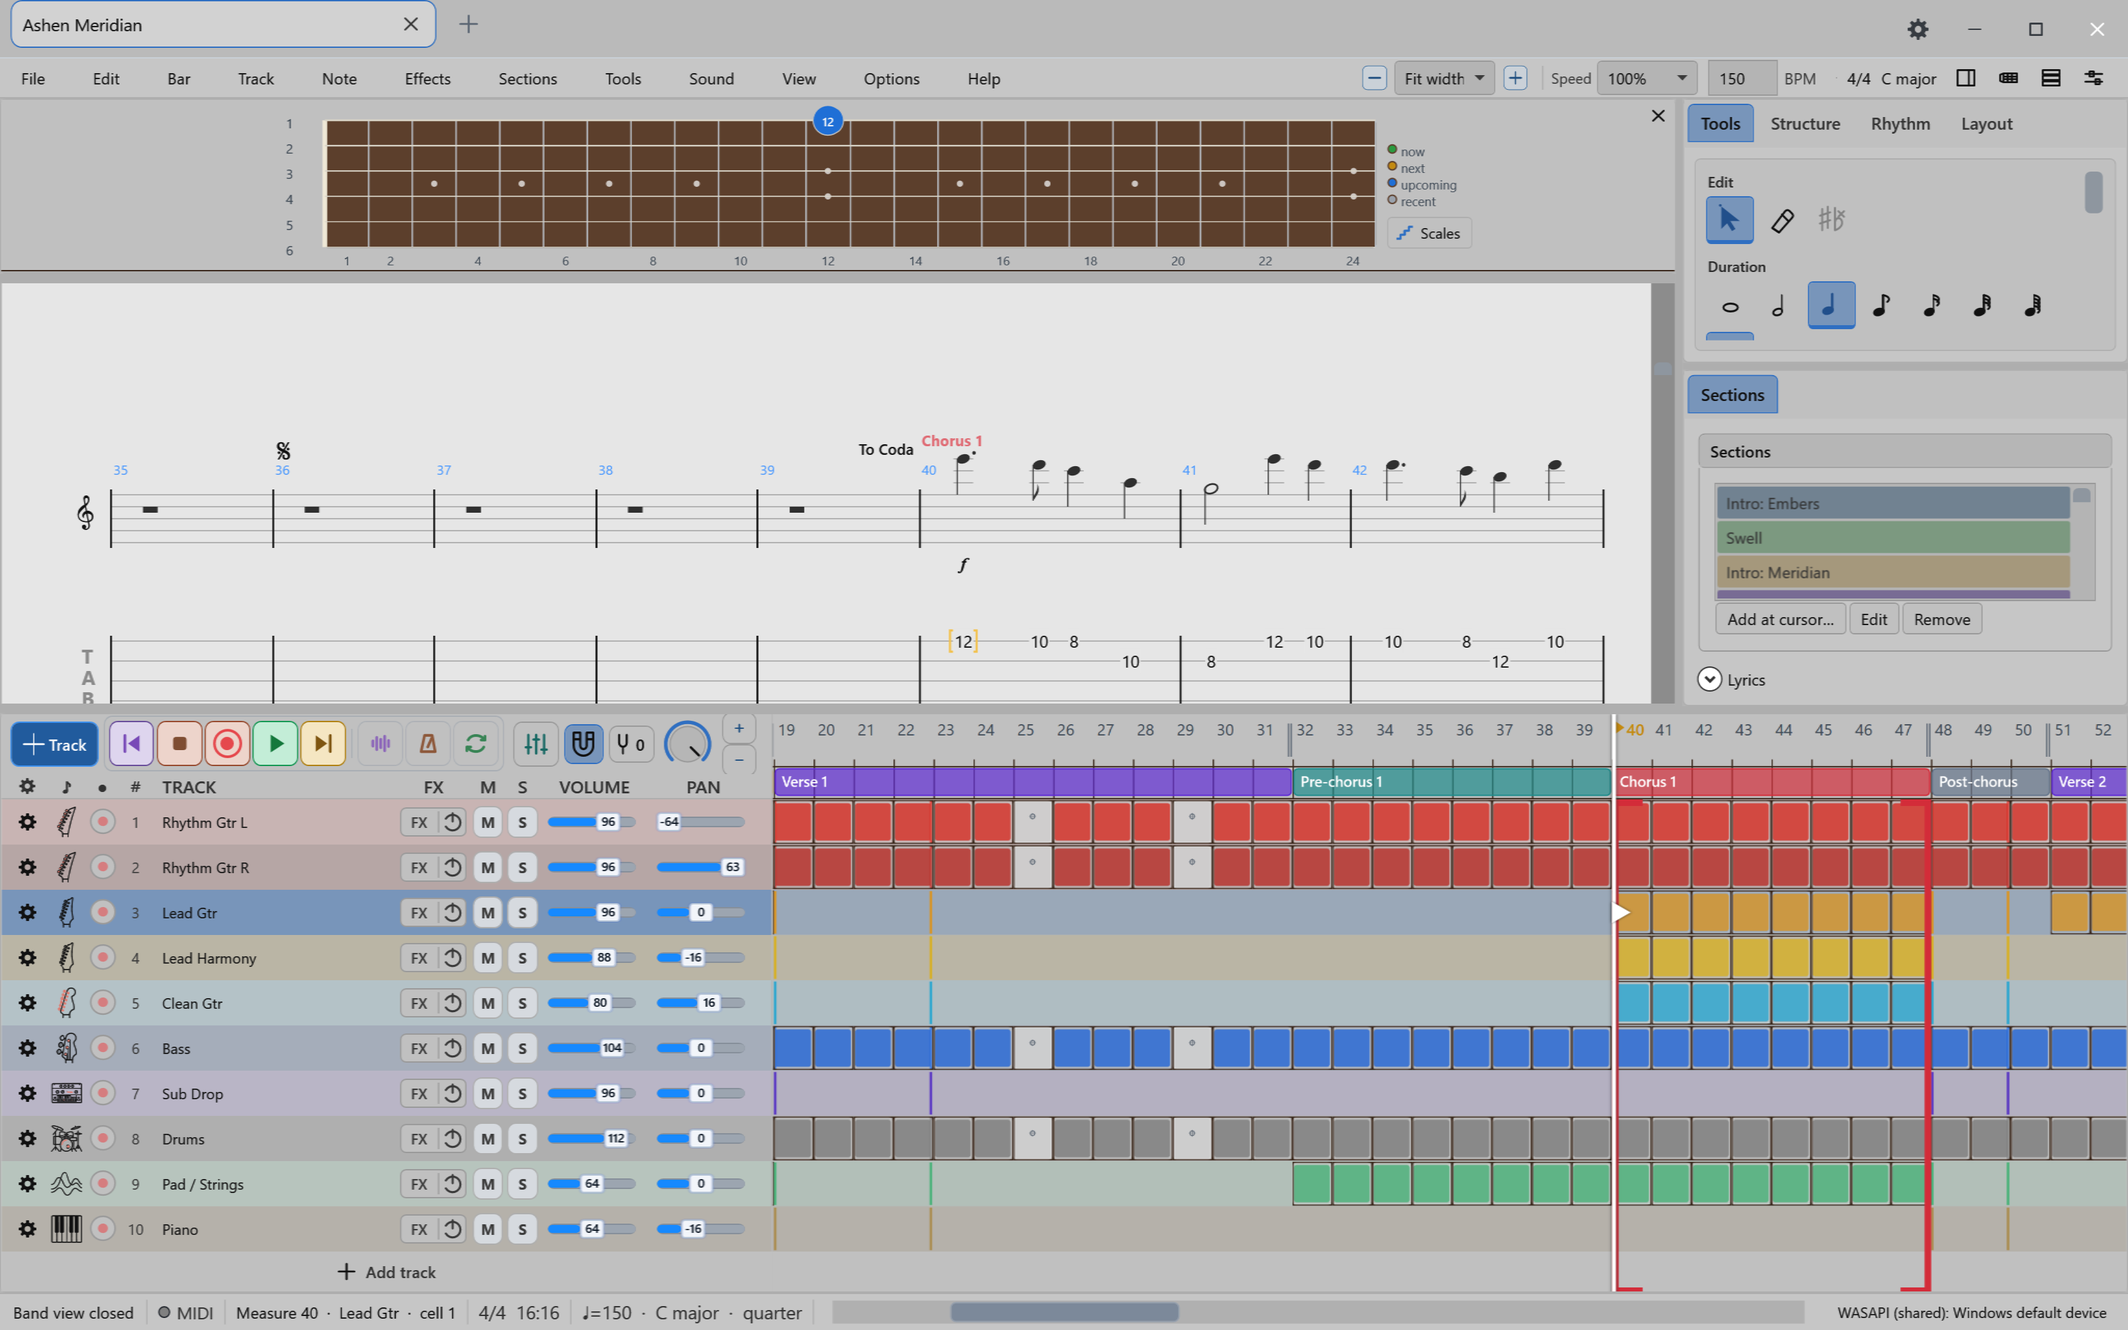
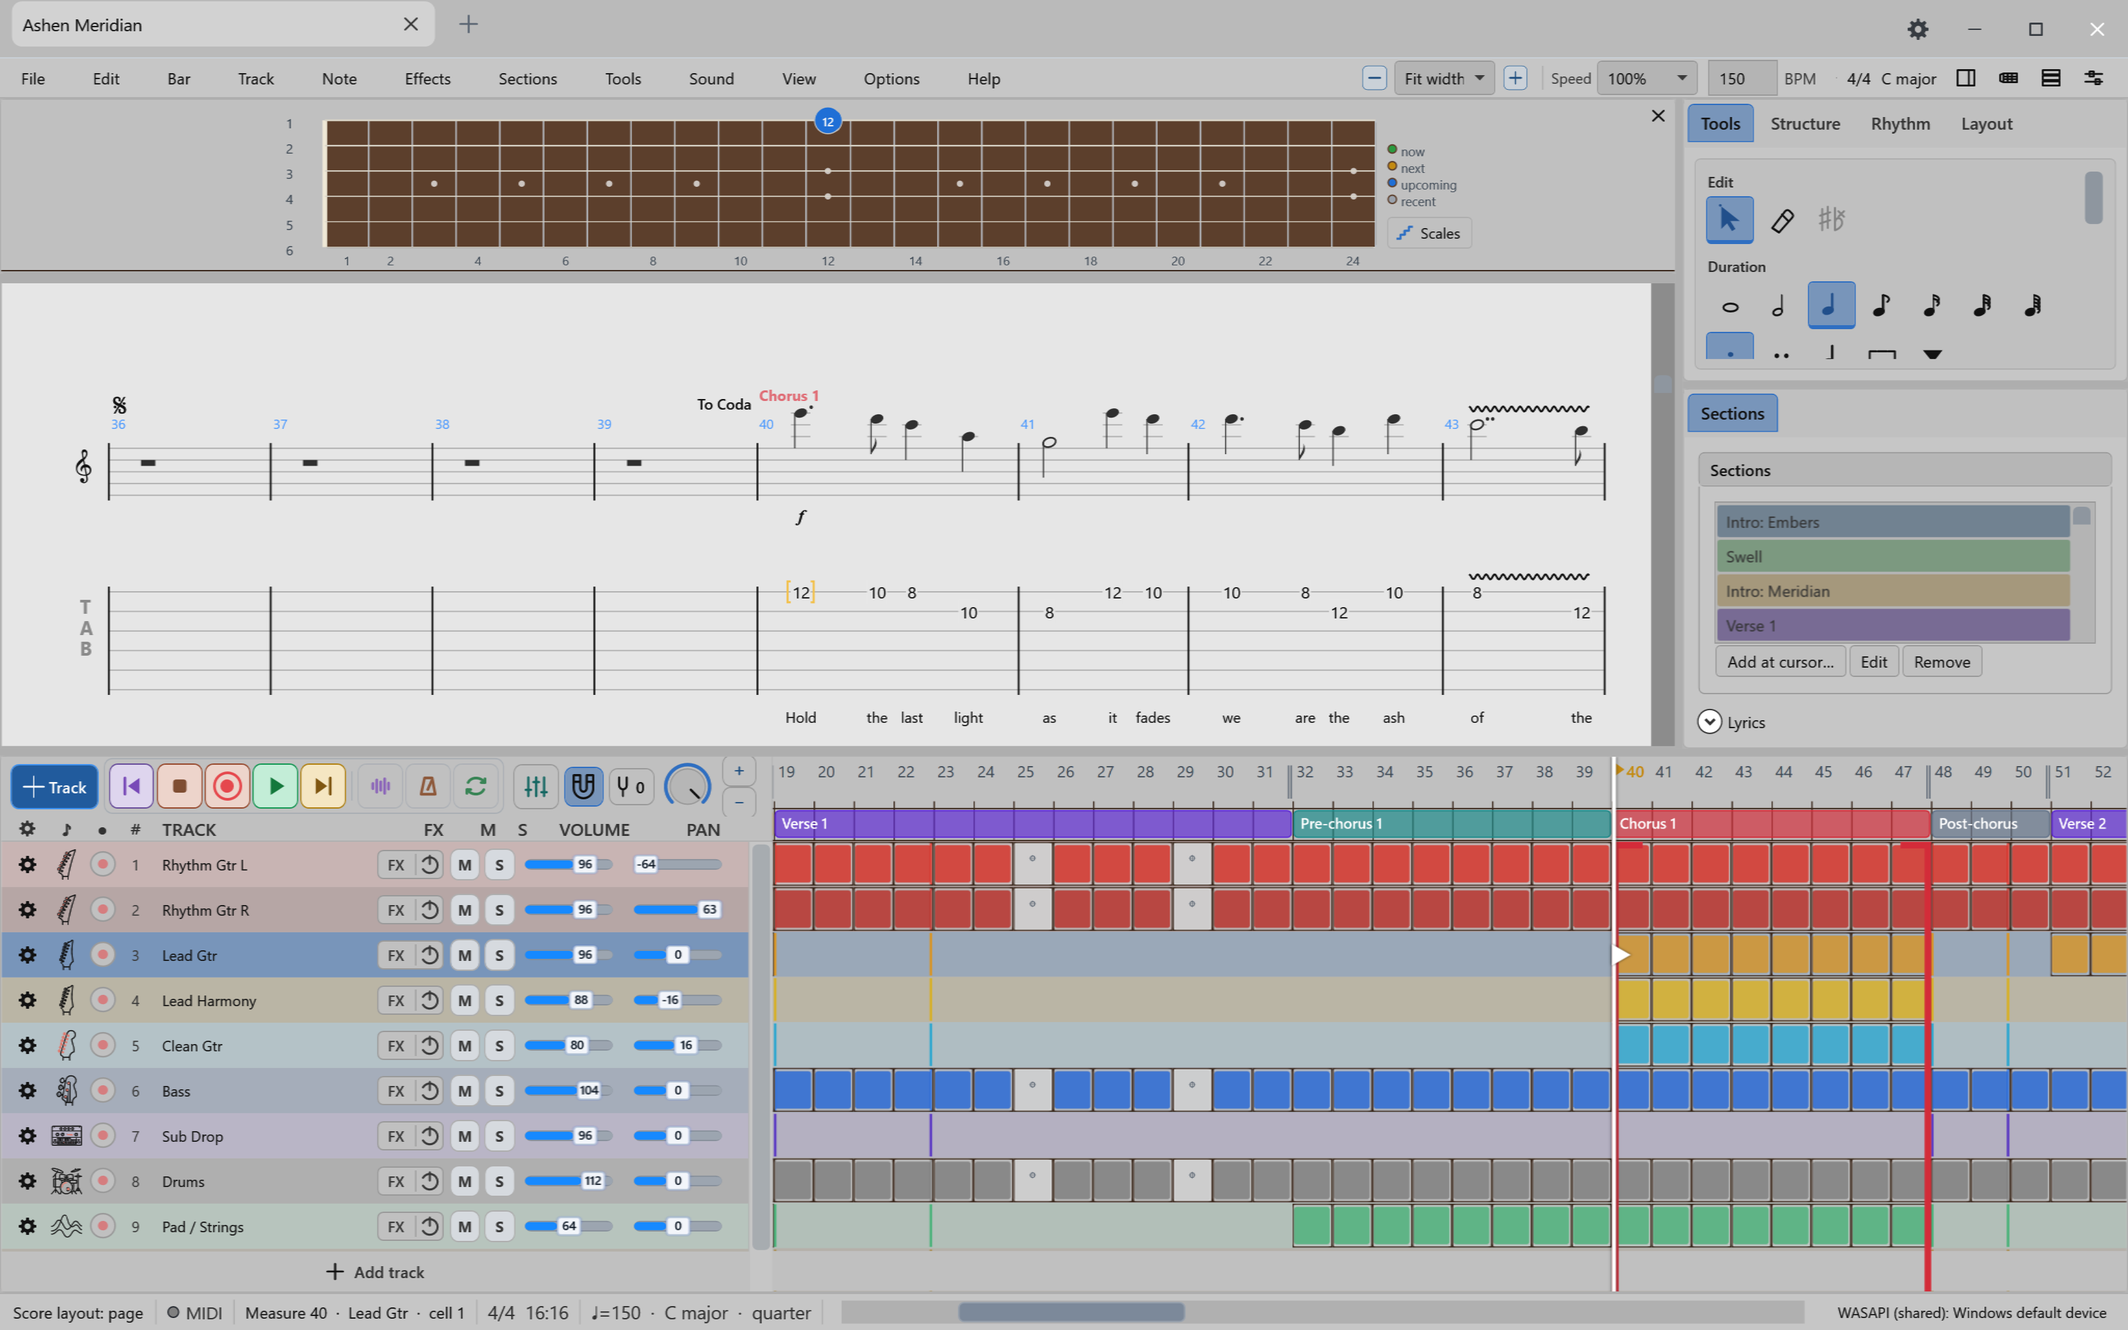
TabForge 0.6.1

diff --git a/src/TabForge/Controllers/TrackListFitController.cs b/src/TabForge/Controllers/TrackListFitController.cs
@@ -14,6 +14,8 @@ internal interface ITrackListFitHost
     Dispatcher Dispatcher { get; }
     void SaveSettings();
     void SetStatus(string text);
+    /// <summary>The least height the score pane keeps (one full system); 0 when unknown.</summary>
+    double MinScoreHeight => 0;
 }
 
 // Owns: the track-list dock height: fitting it to its rows and turning a splitter drag into a row height.
@@ -31,6 +33,7 @@ internal sealed class TrackListFitController
     internal const double Chrome = 2;
     private readonly ITrackListFitHost _host;
     private bool _fitting, _dragging, _fitPending;
+    private bool _uncapped;   // a dragged-to height is the user's: the cap does not pull it back
     private bool _userShort;   // the user dragged the dock shorter than its rows: leave it there until the tracks change
 
     public TrackListFitController(ITrackListFitHost host, FrameworkElement owner)
@@ -82,11 +85,21 @@ internal sealed class TrackListFitController
         _fitting = true;
         try
         {
-            var want = _host.Arrangement.PreferredHeight();
+            var want = CappedHeight();
             if (!allowGrow && _host.Arrangement.ActualHeight + Chrome <= want + 1) return;
             _host.Dock.FitPanelHeight(PanelId, want);
         }
         finally { _fitting = false; }
+    }
+
+    /// <summary>The rows' height, capped at 45% of the space shared with the score and leaving the score one system; never below the collapsed height. Extra rows scroll.</summary>
+    private double CappedHeight()
+    {
+        var want = _host.Arrangement.PreferredHeight();
+        var shared = _host.Dock.ActualHeight;
+        if (shared <= 1 || _host.MinScoreHeight <= 0 || _uncapped) return want;
+        var cap = Math.Min(shared * 0.45, shared - _host.MinScoreHeight);
+        return Math.Min(want, Math.Max(ArrangementPanel.CollapsedPaneHeight, cap));
     }
 
     /// <summary>Back to the default row height and a dock that fits the rows.</summary>
@@ -118,7 +131,7 @@ internal sealed class TrackListFitController
                 _userShort = _host.Arrangement.ActualHeight + Chrome < _host.Arrangement.PreferredHeight() - 1;
                 var kept = _userShort ? Math.Round(_host.Arrangement.ActualHeight + Chrome) : 0;
                 if (Math.Abs(_host.Timeline.TrackListHeight - kept) > 0.5) { _host.Timeline.TrackListHeight = kept; _host.SaveSettings(); }
-                if (!_userShort) Fit(allowGrow: true);   // past the maximum row height: snap back to the rows
+                if (!_userShort) { _uncapped = true; try { Fit(allowGrow: true); } finally { _uncapped = false; } }   // past the maximum row height: snap back to the rows
                 break;
             case DockSplitterPhase.DoubleClick: ResetRowHeight(); break;
         }

diff --git a/tests/full-suite/Editor/SelfTestTrackListFit.cs b/tests/full-suite/Editor/SelfTestTrackListFit.cs
@@ -38,6 +38,7 @@ public static partial class SelfTest
         public DockWorkspace Dock { get; init; } = null!;
         public System.Windows.Threading.Dispatcher Dispatcher => System.Windows.Threading.Dispatcher.CurrentDispatcher;
         public int Saves;
+        public double MinScoreHeight { get; init; }
         public void SaveSettings() => Saves++;
         public void SetStatus(string text) { }
     }
@@ -172,6 +173,31 @@ public static partial class SelfTest
         foreach (var (tracks, groups, height) in new[] { (1, false, 1500), (4, false, 1500), (4, true, 1500), (20, false, 1700), (20, false, 800) })
             TrackListDragLimits(tracks, groups, height);
         Check("track list fit: 'Reset track row height' is a bindable command", HotkeyCatalog.All.Any(a => a.Id == "View.ResetTrackRowHeight"));
+    }
+
+    /// <summary>A 1300x800 window with 10 tracks: the track list stops at 45% of the space and the score pane keeps one system.</summary>
+    private static void TestTrackListFitCapsAtScore()
+    {
+        var song = new SongProject();
+        for (var i = 0; i < 10; i++) song.Tracks.Add(MixerTestTrack("T" + i, TrackKind.Guitar, 30));
+        var panel = new ArrangementPanel();
+        panel.Bind(song, Array.Empty<Playback.MidiOutputDeviceInfo>());
+        var workspace = new DockWorkspace(new Window());
+        var window = new FitStage(workspace, 1300, 800);
+        var score = new Border();
+        workspace.SetEditorContent(score, 460, 0);
+        workspace.RegisterPanel("timeline", "Arrangement", panel, 440, 112, "timeline", "score-editor");
+        workspace.RestoreLayout(null);
+        using var alive = KeepAlive();
+        try
+        {
+            window.UpdateLayout(); PumpUi();
+            var fit = new TrackListFitController(new FitHost { Arrangement = panel, Dock = workspace, MinScoreHeight = 240 }, workspace);
+            fit.FitToTracks(); PumpUi(); window.UpdateLayout();
+            Check("track list cap: the score pane keeps at least one system", score.ActualHeight >= 240, $"score {score.ActualHeight:0}px, list {panel.ActualHeight:0}px");
+            Check("track list cap: the track list stays within 45% of the space (rows scroll)", panel.ActualHeight <= 800 * 0.45 + 4 && panel.ActualHeight + 2 >= ArrangementPanel.CollapsedPaneHeight, $"{panel.ActualHeight:0}px");
+        }
+        finally { window.Close(); }
     }
 
     private static void TwoPanelsKeepTheirOwnRowHeight()

diff --git a/src/TabForge/Views/ScoreFollowCoordinator.cs b/src/TabForge/Views/ScoreFollowCoordinator.cs
@@ -71,12 +71,14 @@ internal sealed class ScoreFollowCoordinator
             if (_isPlayingVisual() || _editor.HorizontalScroll || _editor.Track is not { Measures.Count: > 0 } || _scroll.ViewportHeight <= 1) return;
             var top = _editor.SystemTopForMeasure(_editor.SelectedMeasure);
             var height = _editor.SystemHeightNow;
+            // A pane shorter than one system keeps the TAB (the system's lower part) in view.
+            if (_scroll.ViewportHeight > 1 && height > _scroll.ViewportHeight) { var focus = FocusTop(top); if (Math.Abs(_scroll.VerticalOffset - focus) > 2) JumpTo(focus); return; }
             var shown = Math.Min(top + height, _scroll.VerticalOffset + _scroll.ViewportHeight) - Math.Max(top, _scroll.VerticalOffset);
             var quarter = Math.Min(height, _scroll.ViewportHeight) / 4;
             if (shown >= quarter) return;
             // The usual target keeps headings above the system in view; a pane too short for both shows the system itself.
             var offset = _editor.ScrollOffsetForMeasure(_editor.SelectedMeasure);
-            JumpTo(top < offset || top + quarter > offset + _scroll.ViewportHeight ? top : offset);
+            JumpTo(top < offset || top + quarter > offset + _scroll.ViewportHeight ? FocusTop(top) : offset);
         });
     }
 
@@ -415,10 +417,19 @@ internal sealed class ScoreFollowCoordinator
         return ScoreVerticalFollow.GlideStep(current, target, dt);
     }
 
+    /// <summary>Where to scroll for a system starting at <paramref name="top"/>: its top, or, in a pane shorter than the system, its lower part so the TAB stays in view.</summary>
+    public double FocusTop(double top)
+    {
+        var height = _editor.SystemHeightNow;
+        var viewport = _scroll.ViewportHeight;
+        return height > viewport && viewport > 1 ? top + height - viewport : top;
+    }
+
     private double? NextVerticalOffset(int bar)
     {
         var viewport = _scroll.ViewportHeight;
         if (viewport <= 1) return null;
+        if (_editor.SystemHeightNow > viewport) return FocusTop(_editor.SystemTopForMeasure(bar));   // a pane shorter than one system follows the TAB
         return ScoreVerticalFollow.NextOffset(_scroll.VerticalOffset, viewport,
             _editor.SystemTopForMeasure(bar), _editor.SystemHeightNow, _scroll.ExtentHeight,
             _marginPercent, _settings().VerticalTriggerPercent);

diff --git a/src/TabForge/Diagnostics/WindowProbes.CaptureAnimation.cs b/src/TabForge/Diagnostics/WindowProbes.CaptureAnimation.cs
@@ -11,7 +11,7 @@ using TabForge.Views;
 namespace TabForge.Diagnostics;
 
 // Owns: the capture step "frames" (an animated sequence written as numbered PNGs plus <prefix>.frames.json with the time of each frame).
-//   {"frames":"name","action":"playback|track-drag|section-drag|area-move|record|clip-edit|type-notes","p":[...],"count":40,"interval":50,"hold":8,
+//   {"frames":"name","action":"playback|band-playback|track-drag|section-drag|area-move|record|clip-edit|type-notes","p":[...],"count":40,"interval":50,"hold":8,
 //    "target":"window","region":[x,y,w,h]}
 // Each frame applies the action at progress t (0..1) through the simulation seams (no pressed mouse button needed), waits, and renders the target.
 // Does not own: single shots (WindowProbes.CaptureShots.cs) or the GIF assembly (done outside the app from the PNGs).
@@ -44,6 +44,7 @@ internal sealed partial class WindowProbes
                 var t = Math.Clamp(i / (double)Math.Max(1, count - 1), 0, 1);
                 if (i < count) frame.Step(i, t); else frame.Hold(i - count);
                 await _w.Settle(interval);
+                ScrubHardwareNames();   // playback rewrites the status bar's device text: hide it on every frame, not only the first
                 RenderTreeFresh(element);
                 var bitmap = Render(element, element.ActualWidth, element.ActualHeight, region);
                 times.Add(clock.ElapsedMilliseconds);
@@ -88,6 +89,13 @@ internal sealed partial class WindowProbes
                     }
                     return new FrameScript((_, t) => At(p[0] + (p[1] - p[0]) * t), _ => { }, () => w._isPlayingVisual = false);
                 }
+                case "band-playback":   // p = [from, to] as bar + fraction (1-based); the Band view follows with its lanes and instruments
+                    return new FrameScript((_, t) =>
+                    {
+                        var pos = p[0] + (p[1] - p[0]) * t;
+                        var bar = (int)Math.Floor(pos);
+                        BandPlaying(bar - 1, pos - bar);
+                    }, _ => { }, () => w.Window.Band.ProbePlay = null);
                 case "track-drag":   // p = [from, to] (0-based track rows)
                 {
                     int from = (int)p[0], to = (int)p[1];

diff --git a/src/TabForge/Views/TabEditorControl.cs b/src/TabForge/Views/TabEditorControl.cs
@@ -31,11 +31,11 @@ public sealed partial class TabEditorControl : FrameworkElement, IScoreLayoutHos
     // read on stage without touching the code. The defaults reproduce the original fixed layout.
     private double StaffGap => 9.0 * Appearance.ScoreSpacing;
     private double StringGap => 15.0 * Appearance.ScoreSpacing;
-    private double StaffMarginTop => (46.0 + _layout.ExtraAbove) * Appearance.ScoreSpacing;
+    private double StaffMarginTop => (38.0 + _layout.ExtraAbove) * Appearance.ScoreSpacing;
     private double StaffHeight => 4 * StaffGap;
     // Keep a generous clear band between standard notation and tablature, matching printed scores (grown when low notes reach into it).
     private double StaveGap => (52.0 + _layout.ExtraBelow) * Appearance.ScoreSpacing * Appearance.SystemVerticalSpacing;
-    private double SystemHeight => StaffMarginTop + StaffToTab + (TabStringCount - 1) * StringGap + Math.Max(28.0 * Appearance.ScoreSpacing, _layout.ExtraTabBelow);
+    private double SystemHeight => StaffMarginTop + StaffToTab + (TabStringCount - 1) * StringGap + Math.Max(20.0 * Appearance.ScoreSpacing, _layout.ExtraTabBelow);
     /// <summary>Strings of the shown track (6 when there is none): the tab part of a system follows it.</summary>
     private int TabStringCount => Math.Max(1, Track?.StringTunings.Count is > 0 and var n ? n : 6);
 

diff --git a/tests/full-suite/SelfTestFullSuite.cs b/tests/full-suite/SelfTestFullSuite.cs
@@ -165,6 +165,7 @@ public static partial class SelfTest
         Guard(TestThemedCheckBoxAndProgressBar);
         Guard(TestDockRatioNotRewrittenByAutoFit);
         Guard(TestTrackListFit);
+        Guard(TestTrackListFitCapsAtScore);
         Guard(TestTrackListCollapse);
         Guard(TestResizeDuringPlayback);
         Guard(TestTrackRowsEndFlush);
@@ -871,7 +872,7 @@ public static partial class SelfTest
         ["TestTimelineSectionCopiesAsBars"] = "ui",
         ["TestTooltips"] = "ui",
         ["TestTrackColumnHeaderFit"] = "ui",
-        ["TestTrackListFit"] = "ui", ["TestTrackListCollapse"] = "ui",
+        ["TestTrackListFit"] = "ui", ["TestTrackListFitCapsAtScore"] = "ui", ["TestTrackListCollapse"] = "ui",
         ["TestTrackRowRightClick"] = "ui", ["TestTrackRowMenu"] = "ui", ["TestSelectionScope"] = "ui", ["TestSelectionClipboardMatrix"] = "ui", ["TestTimelineCellsCurrent"] = "ui", ["TestClipDragPress"] = "ui", ["TestClipWaveformSpan"] = "ui",
         ["TestTrackRowsEndFlush"] = "ui",
         ["TestViewMenuWording"] = "ui",

diff --git a/src/TabForge/MainWindow.Documents.cs b/src/TabForge/MainWindow.Documents.cs
@@ -175,6 +175,8 @@ public partial class MainWindow
                 ScoreScroll.UpdateLayout();
                 ScoreScroll.ScrollToHorizontalOffset(0);
                 ScrollToCursor();
+                // a pane shorter than title + one system shows the cursor's system, not the title block
+                if (!_follow.BarInView(Editor.SelectedMeasure) && ScoreScroll.ViewportHeight > 1) _follow.JumpTo(_follow.FocusTop(Editor.SystemTopForMeasure(Editor.SelectedMeasure)));
                 ScoreScroll.ScrollToHorizontalOffset(0);
             }), System.Windows.Threading.DispatcherPriority.ContextIdle);
         Dispatcher.BeginInvoke(new Action(() =>

diff --git a/src/TabForge/MainWindow.Playback.cs b/src/TabForge/MainWindow.Playback.cs
@@ -341,7 +341,8 @@ public partial class MainWindow
     {
         var track = SelectedTrack;
         if (track is null || track.Measures.Count == 0) return;
-        _follow.JumpTo(Editor.ScrollOffsetForMeasure(Editor.SelectedMeasure));
+        var bar = Math.Clamp(Editor.SelectedMeasure, 0, track.Measures.Count - 1);
+        _follow.JumpTo(ScoreScroll.ViewportHeight > 1 && Editor.SystemHeightNow > ScoreScroll.ViewportHeight ? _follow.FocusTop(Editor.SystemTopForMeasure(bar)) : Editor.ScrollOffsetForMeasure(bar));
         // One-line mode: bring the cursor bar into view unless it already is.
         if (Editor.HorizontalScroll)
         {

diff --git a/src/TabForge/MainWindow.Tracks.cs b/src/TabForge/MainWindow.Tracks.cs
@@ -205,6 +205,7 @@ public partial class MainWindow : ITrackListFitHost, ITrackGridDragHost
     DockWorkspace ITrackListFitHost.Dock => _dockWorkspace!;
     void ITrackListFitHost.SaveSettings() => SaveSettings();
     void ITrackListFitHost.SetStatus(string text) => StatusText.Text = text;
+    double ITrackListFitHost.MinScoreHeight => Editor.SystemHeightNow + 40;
 
     private void FitTimelineToTracks() => _trackListFit?.FitToTracks();
 

diff --git a/docs/feature-map/tests.md b/docs/feature-map/tests.md
@@ -27,7 +27,7 @@ Generated by `TabForge.exe --feature-map` from the test registry. Do not edit by
 | smoke | 20 | `--selftest <log> --areas smoke` |
 | synthetic | 2 | `--selftest <log> --areas synthetic` |
 | tutorial | 6 | `--selftest <log> --areas tutorial` |
-| ui | 169 | `--selftest <log> --areas ui` |
+| ui | 170 | `--selftest <log> --areas ui` |
 | window-lifetime | 2 | `--selftest <log> --areas window-lifetime` |
 | workflow | 13 | `--selftest <log> --areas workflow` |
 
@@ -611,6 +611,7 @@ A group is a named set of tests with a minimum check count; `--require ci` makes
 | TestTrackLinesRedraw |  | `tests/full-suite/Views/SelfTestTrackLines.cs` |
 | TestTrackListCollapse |  | `tests/full-suite/Editor/SelfTestTrackListCollapse.cs` |
 | TestTrackListFit |  | `tests/full-suite/Editor/SelfTestTrackListFit.cs` |
+| TestTrackListFitCapsAtScore |  | `tests/full-suite/Editor/SelfTestTrackListFit.cs` |
 | TestTrackNameEllipsis |  | `tests/full-suite/Views/SelfTestUiContrast.cs` |
 | TestTrackRowMenu |  | `tests/full-suite/Editor/SelfTestTrackRowMenu.cs` |
 | TestTrackRowRightClick |  | `tests/full-suite/Editor/SelfTestTrackRows.cs` |

diff --git a/CHANGELOG.md b/CHANGELOG.md
@@ -2,6 +2,13 @@
 
 TabForge is actively developed; please report anything odd on the Issues page.
 
+## 0.6.1 — 2026-10-09
+
+- With many tracks, the track list now takes at most about half the height, so the score always shows at least one full line of tab and notation; further tracks scroll.
+- A song opened in a short score pane shows its first line of music instead of only the title.
+- When the score pane is shorter than one line of music, the view keeps the TAB and cursor in sight instead of the empty space above the notation.
+- Lines of music sit slightly closer together in the vertical page view.
+
 ## 0.6.0 — 2026-10-08
 
 A big update since 0.5.6: a new Band view, editors for every note effect, live sound preview, mixer groups you can shape yourself, a fresh look with new icons, and a long list of editing, playback and audio fixes.

diff --git a/README.md b/README.md
@@ -1,4 +1,4 @@
-# TabForge 0.6.0
+# TabForge 0.6.1
 
 **A keyboard-driven tablature and notation editor for Windows. Opens GP files (.gp3, .gp4, .gp5, .gpx, .gp) and saves .gp and its own .tforge projects.** Write, import and play back guitar, bass, drum and keyboard parts, with a live fretboard / keyboard, an arrangement timeline, audio and MIDI recording, a mixer, VST plug-ins and offline audio rendering.
 
